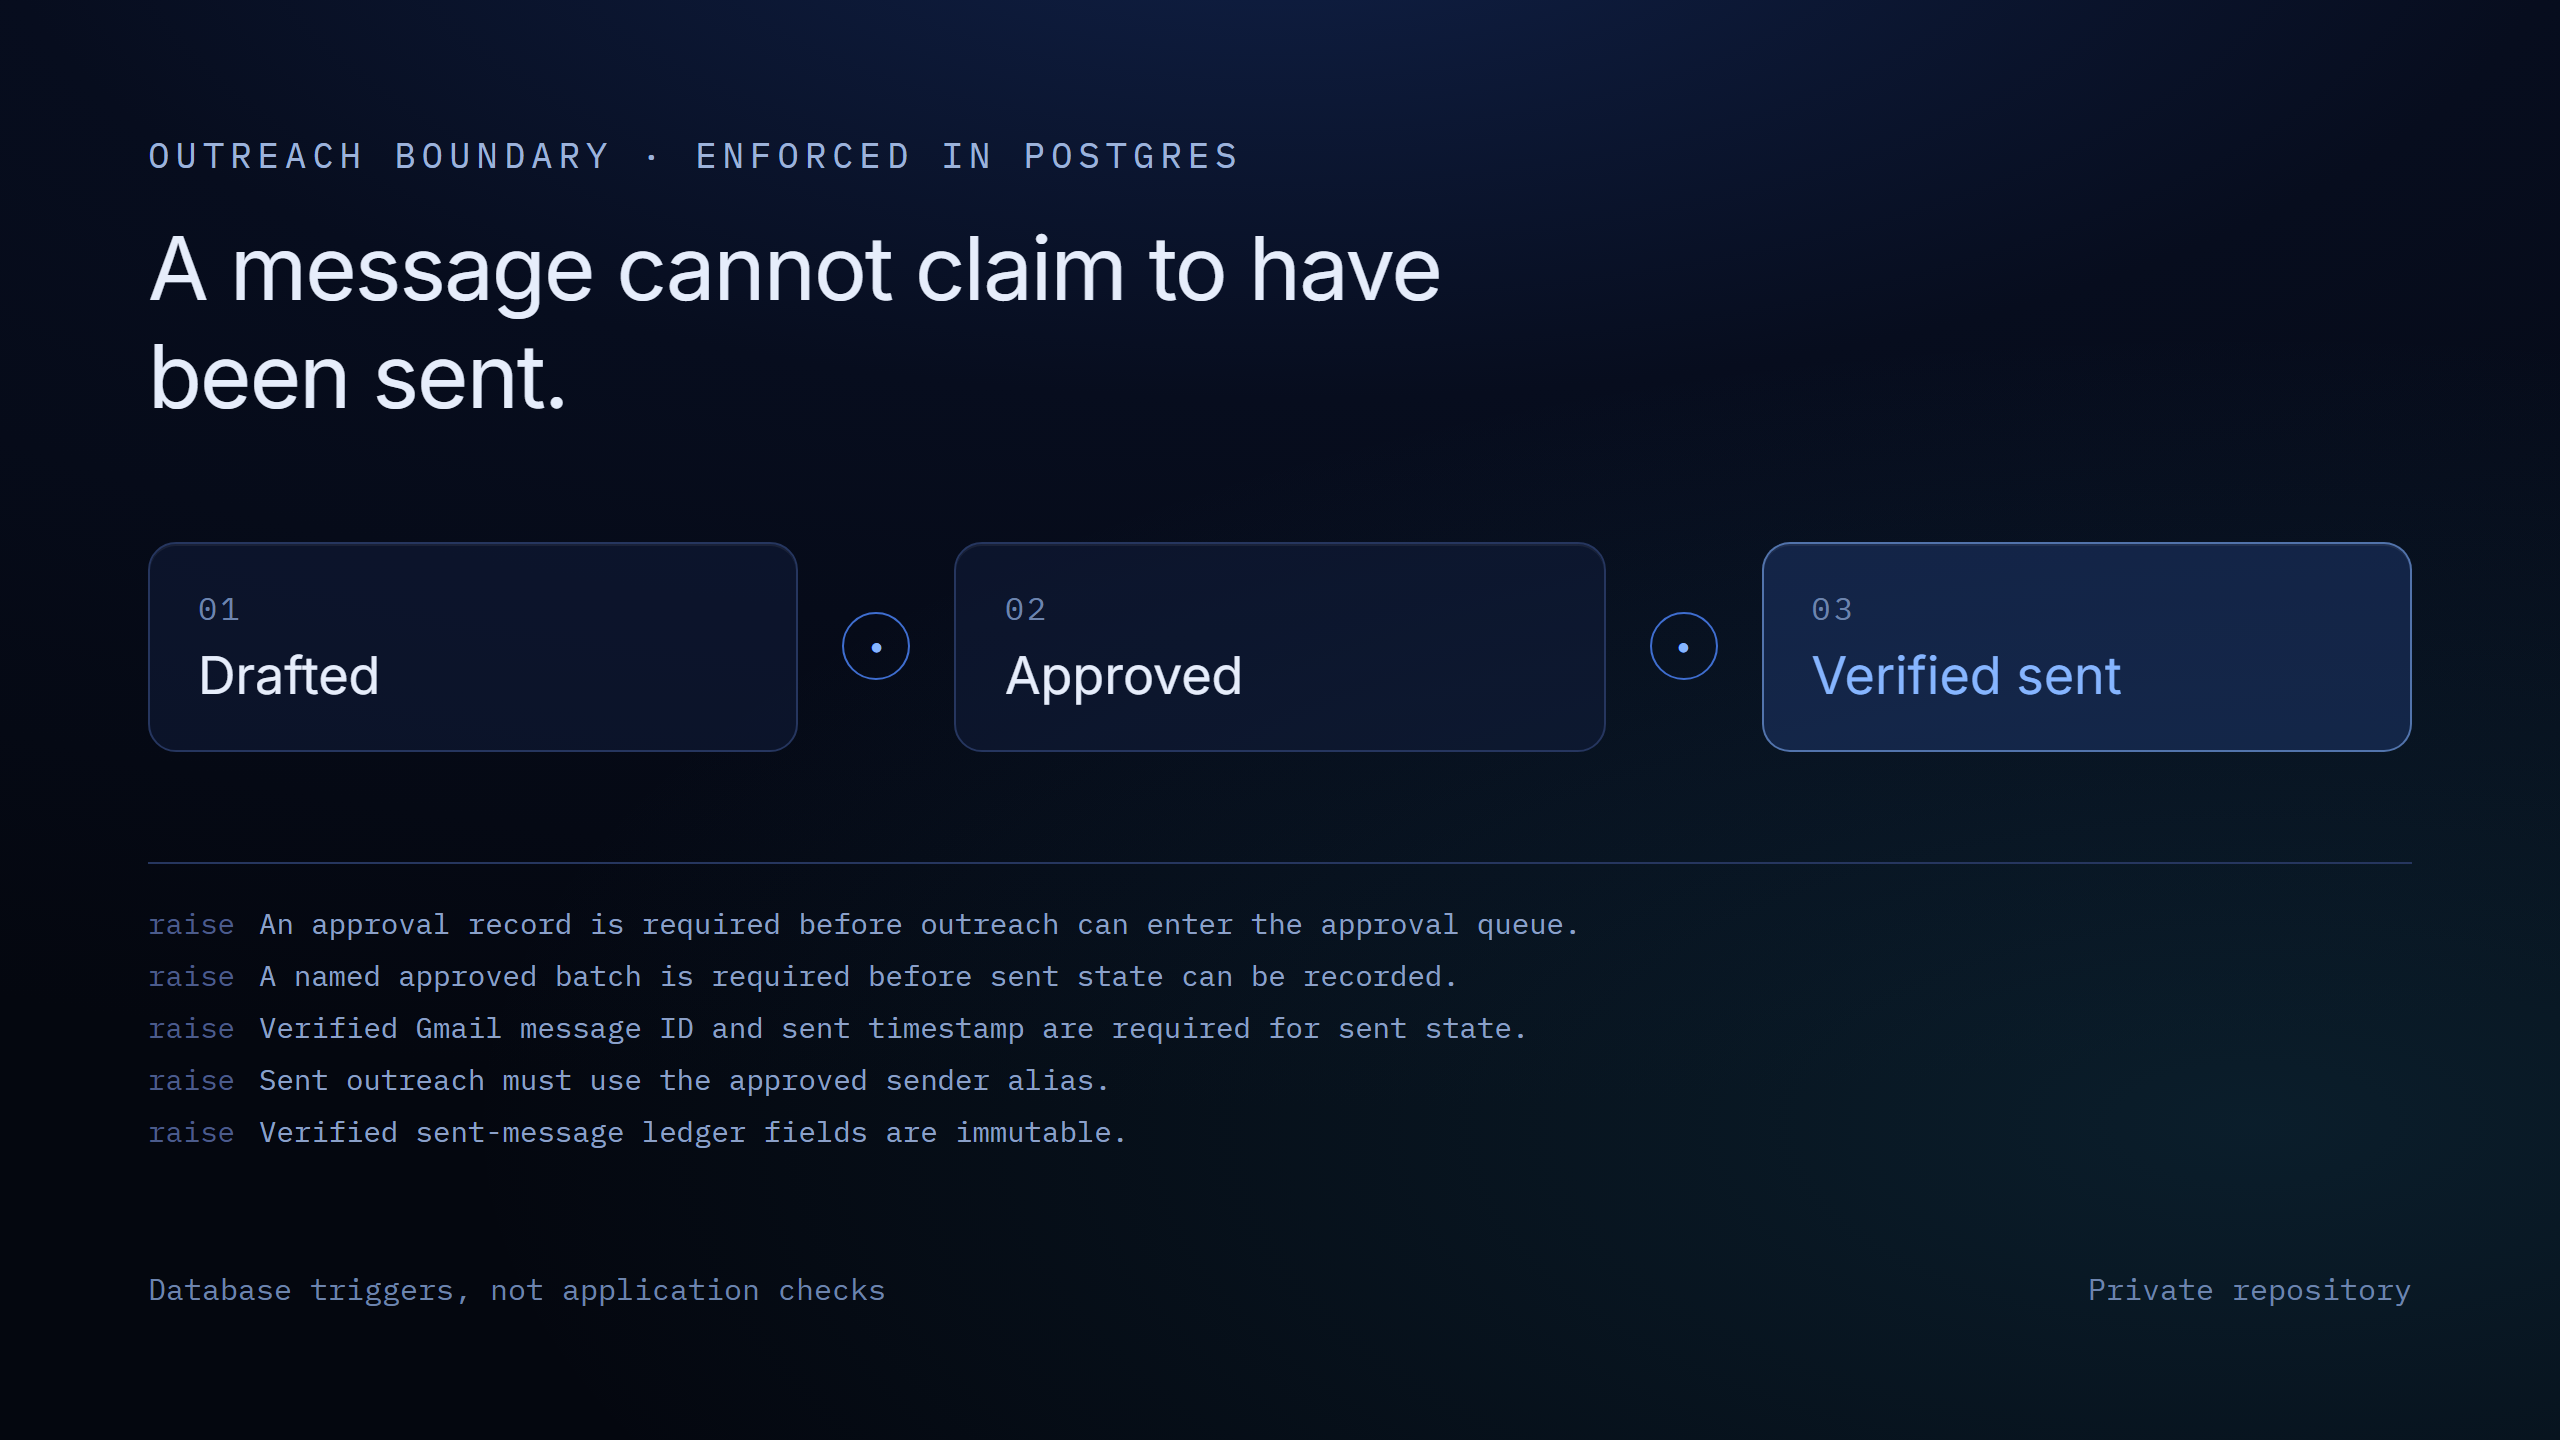
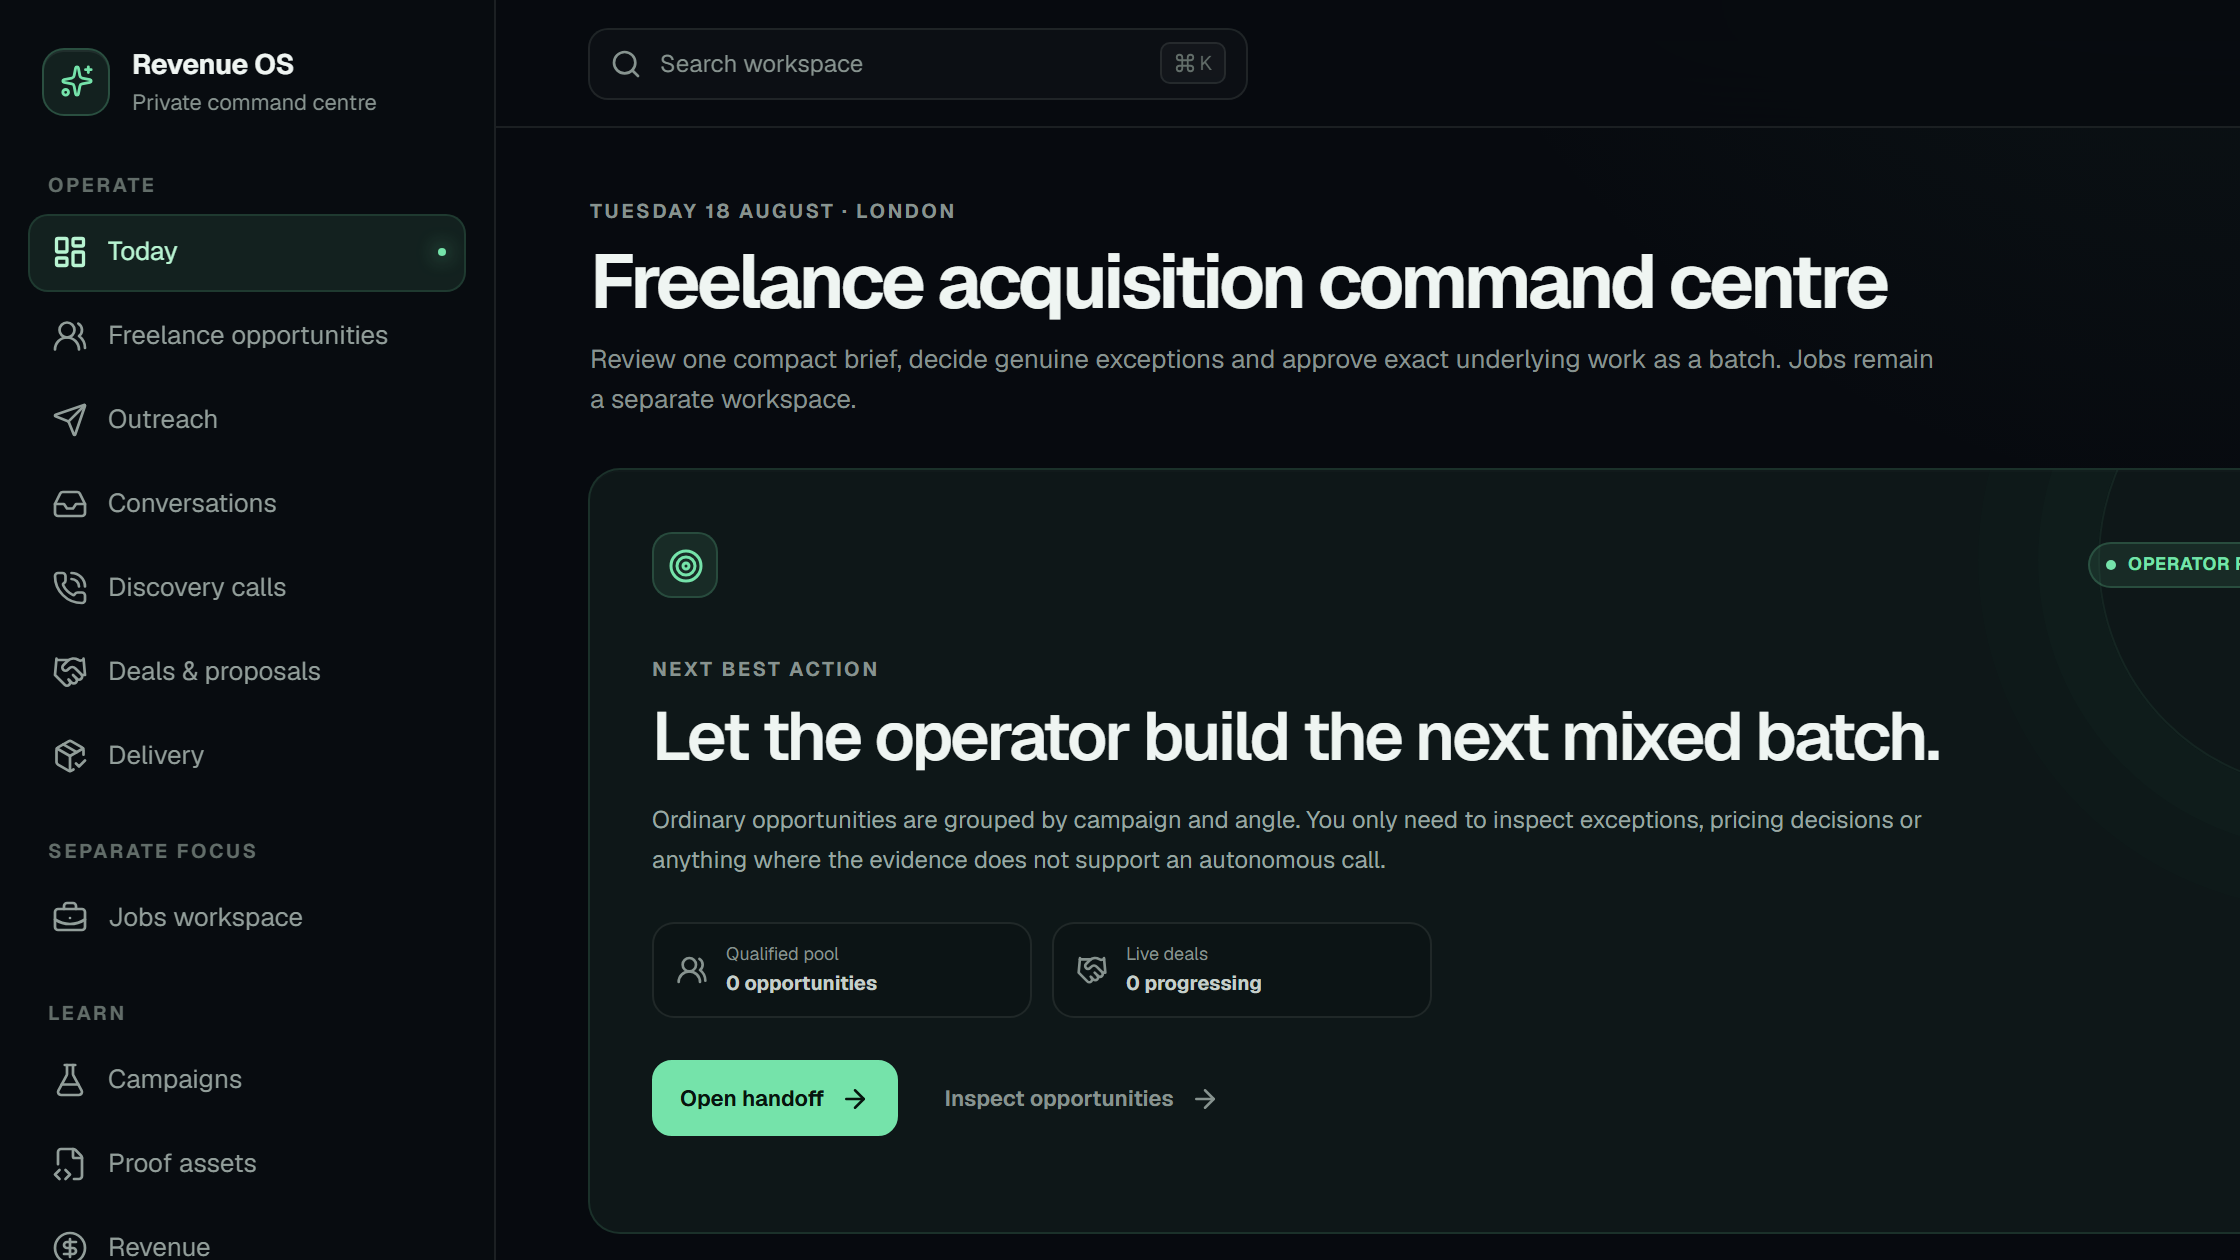
feat: the Revenue OS card is the real dashboard
Zain authorised capturing it himself. Rather than photograph the production
session, the dashboard was run locally with its own DEV_BYPASS_AUTH flag — the
env file there holds only public keys, no service-role key and no Gmail
credentials, so that instance physically cannot send anything or write
privileged data. Read-only through RLS, nothing touched.

The crop is decided by measurement, not by eye. Every element carrying
third-party or personal data was located first; the leftmost sat at x=1267, so
the frame stops at 1120 and above the metric row entirely. That removes the
reporting panel, the named prospects and the personal address in one cut rather
than relying on a redaction bar nobody checks.

Nothing on the card is edited. Rewriting the visible text to something
plausible was the obvious alternative and it is exactly what this site argues
against — a fabricated record that looks like a real one. What is shown is the
real interface with the sensitive half outside the frame.

The generated boundary figure is not discarded; it moves into the case study
body, where it has room to explain what a screenshot cannot: the exceptions the
database raises before a message may claim to have been sent. MDX gains an image
component for it, constrained to the prose measure so a figure reads as part of
the writing rather than an attachment to it.

diff --git a/src/components/ProjectBody.tsx b/src/components/ProjectBody.tsx
@@ -44,6 +44,18 @@ const components: MDXComponents = {
     />
   ),
 
+  /* Figures inside a case study. Constrained to the prose measure and given the
+     same hairline as everything else, so a diagram reads as part of the writing
+     rather than as an attachment to it. */
+  img: (props) => (
+    // eslint-disable-next-line @next/next/no-img-element, jsx-a11y/alt-text
+    <img
+      className="border-line mb-6 max-w-[68ch] rounded-xl border"
+      loading="lazy"
+      {...props}
+    />
+  ),
+
   /* Results tables. The page's rule is that data is set in the monospace and
      prose is not, so the cells are mono and the header labels carry the same
      uppercase tracking as the artefact metadata. Wrapped in its own scroller:

diff --git a/scripts/figure-revenue-os.ts b/scripts/figure-revenue-os.ts
@@ -1,5 +1,5 @@
 /**
- * The Revenue OS card image.
+ * The Revenue OS boundary figure.
  *
  * Revenue OS is private and stays private, and its live views carry third-party
  * personal data — prospect names and business addresses — which cannot go on a
@@ -21,7 +21,7 @@ const OUT = path.join(
   "public",
   "projects",
   "revenue-os",
-  "hero.png",
+  "boundary.png",
 );
 
 const WIDTH = 1280;
